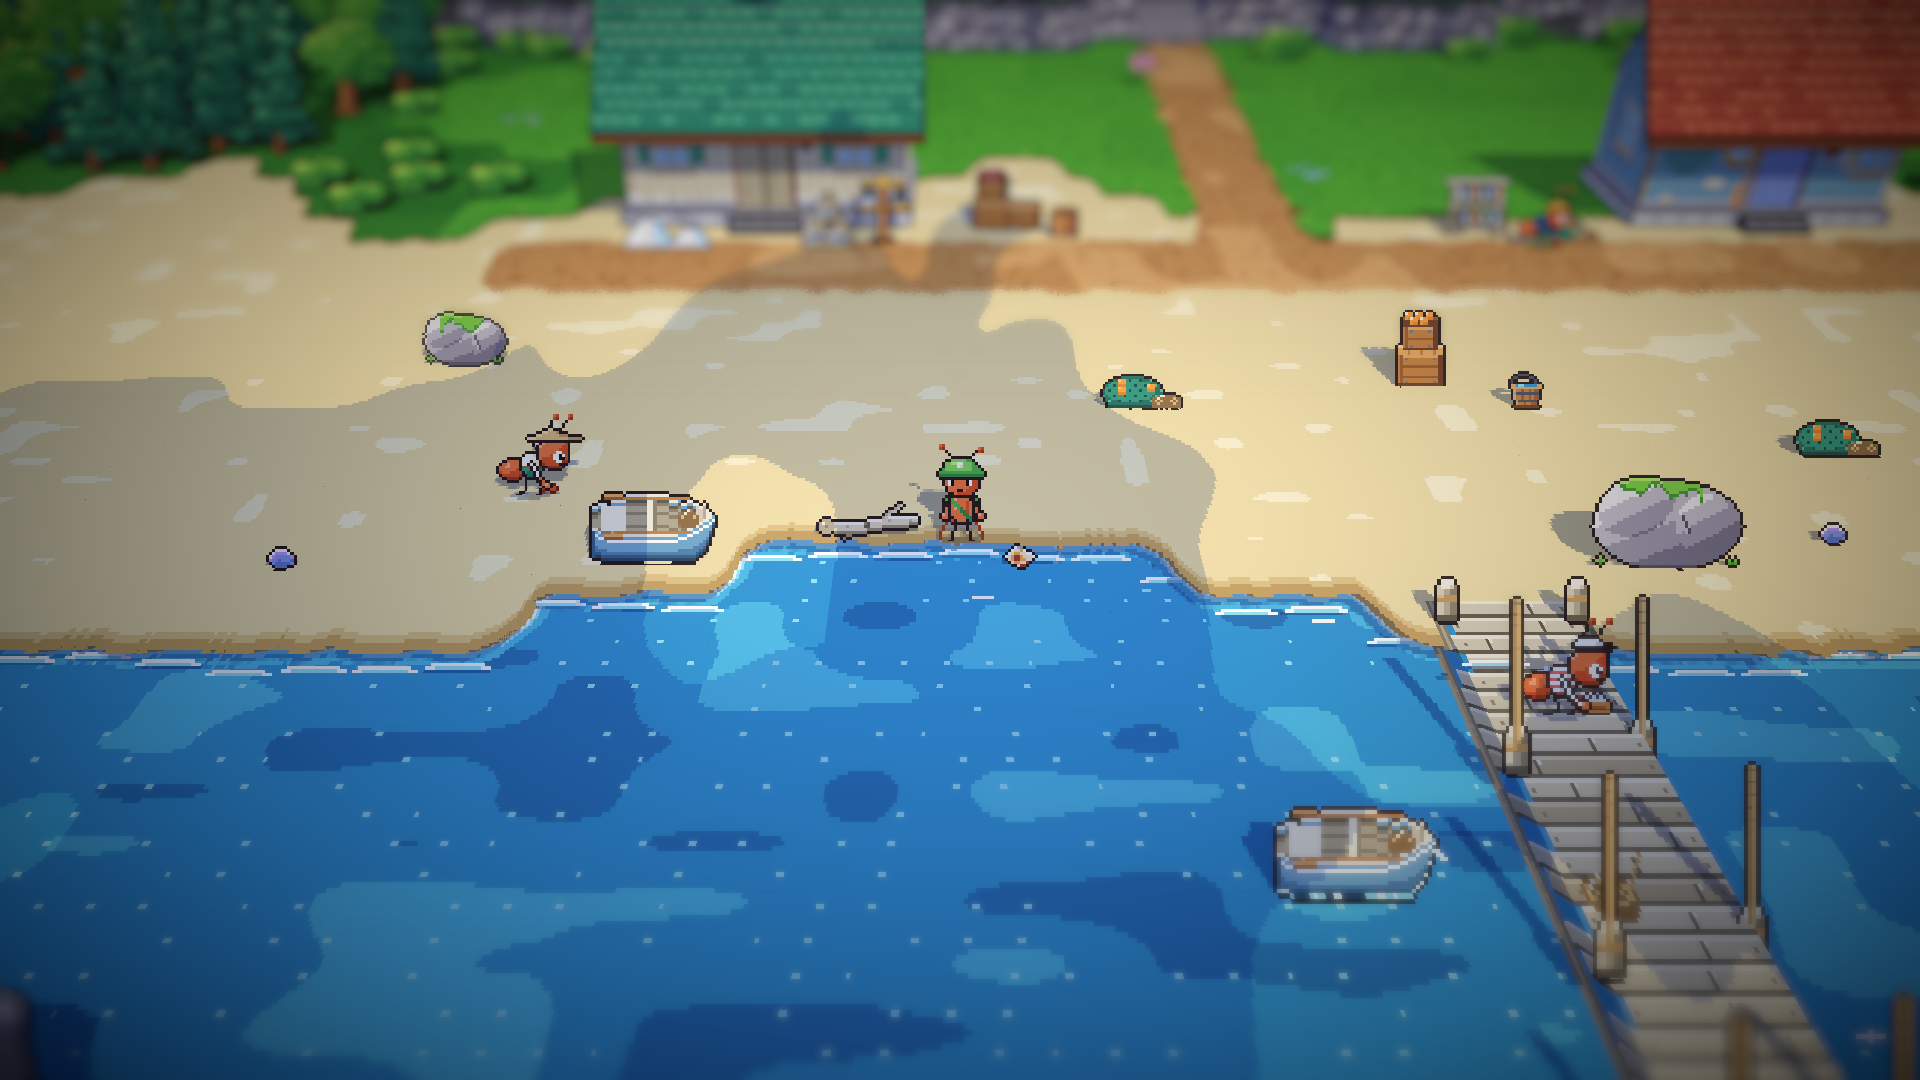
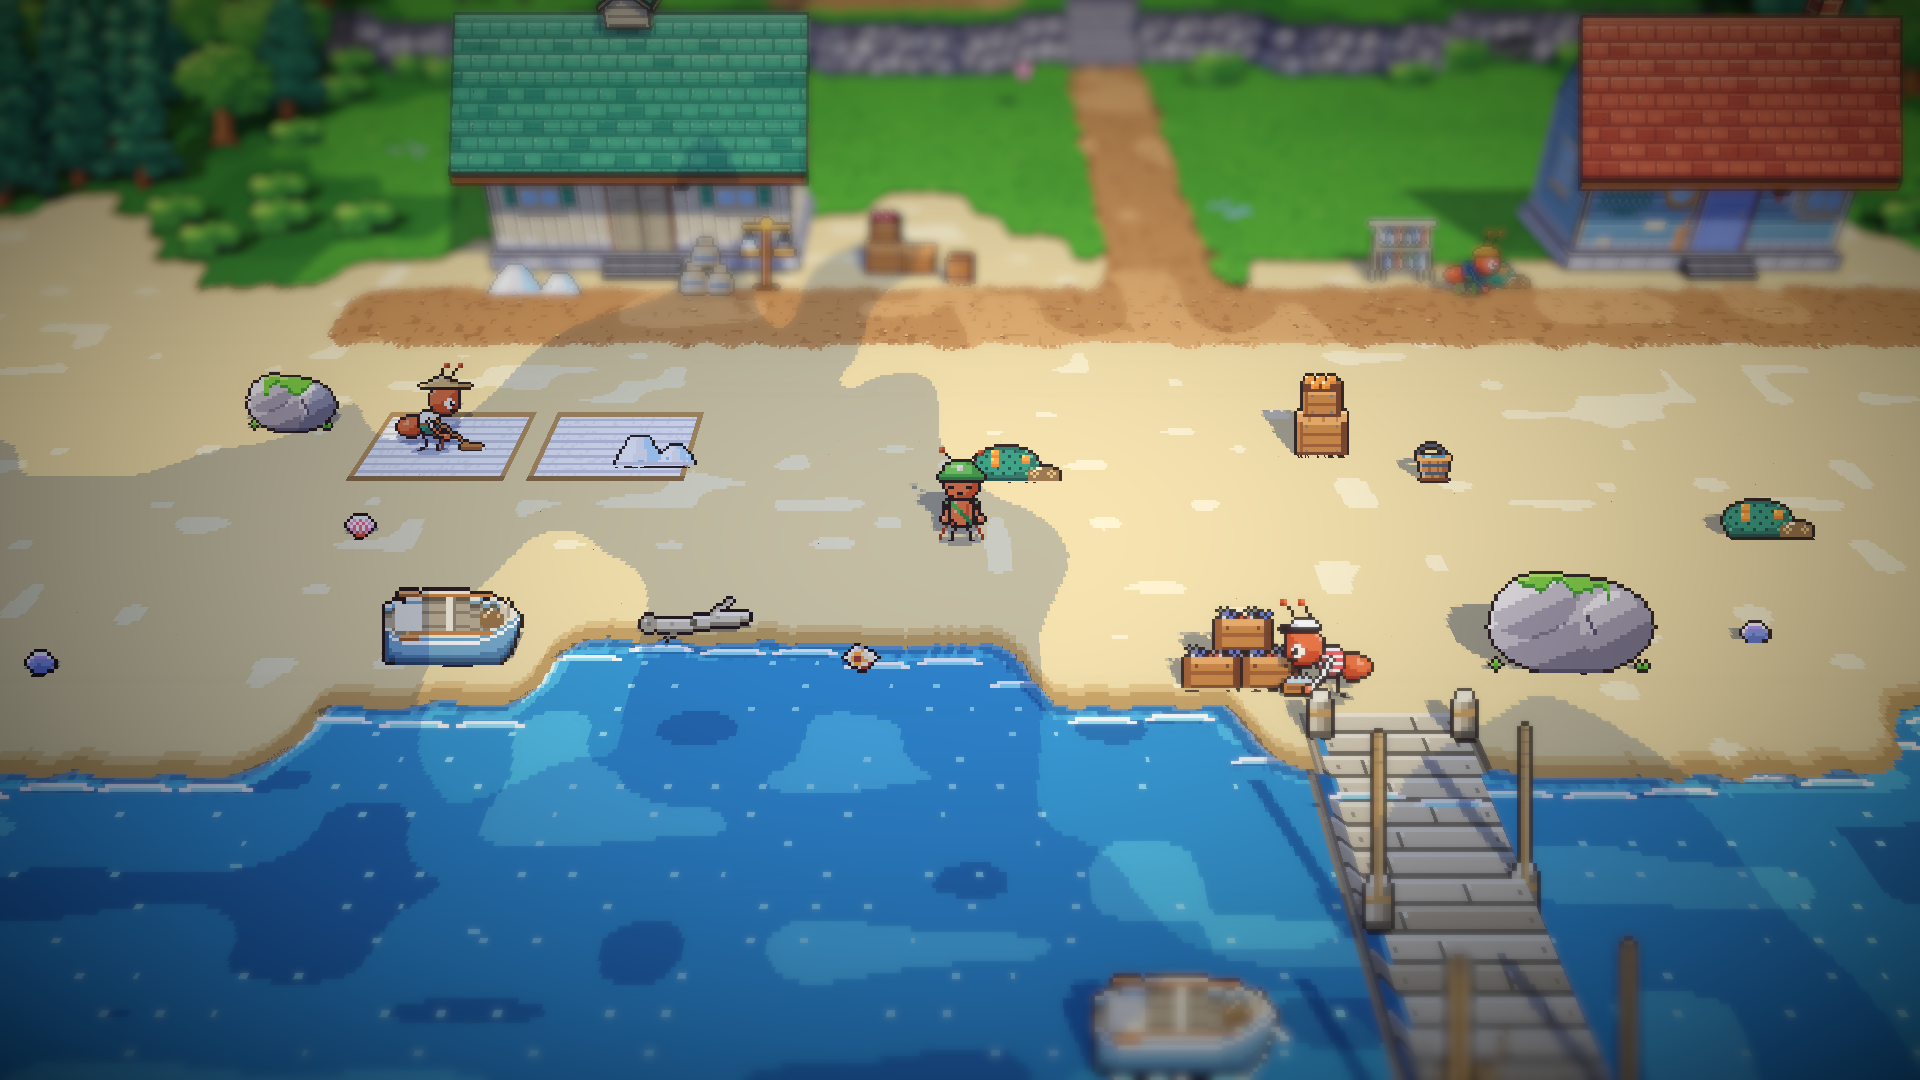
docs(devlog): log the coast's salt pans and catch crates

diff --git a/docs/devlog/22-semut-latar-di-pesisir.md b/docs/devlog/22-semut-latar-di-pesisir.md
@@ -19,14 +19,15 @@ pengangkut ikan dan pekerja garam.
 
 ### Kegiatan mereka (`Places.cs`)
 
-- **Pagi dan siang, nelayan:** mengambil peti ikan di pangkal dermaga, lalu membawanya menyeberangi pasir ke rak ikan
+- **Pagi dan siang, nelayan:** mengambil peti ikan dari tumpukan hasil tangkapan di pangkal dermaga, lalu membawanya menyeberangi pasir ke rak ikan
   di dekat mercusuar. Kalimatnya menyebut Arlo: Arlo yang menangkap, dia yang mengangkut.
-- **Pagi dan siang, pekerja garam:** menggaruk garam di pasir, lalu membawa karungnya ke gudang garam.
+- **Pagi dan siang, pekerja garam:** menggaruk garam di dua petak garam di pasir dengan garuk kayu, lalu membawa
+  karungnya ke gudang garam.
 - **Sore:** nelayan duduk di perahu dayung yang ditarik ke pasir, dan pekerja garam menyapu di depan gudang garam, di
   sebelah tumpukan garam.
 - Masing-masing punya satu kalimat untuk siang hari dan satu untuk sore, tidak pernah berupa petunjuk.
 
-![Pekerja garam menggaruk garam, nelayan di pangkal dermaga](img/22/02-menggaruk-garam.png)
+![Pekerja garam di petak garam, nelayan mengambil peti di pangkal dermaga](img/22/02-menggaruk-garam.png)
 
 ![Pekerja garam membawa karung ke gudang garam](img/22/03-karung-ke-gudang-garam.png)
 
@@ -34,21 +35,32 @@ pengangkut ikan dan pekerja garam.
 
 ![Sore: nelayan di perahu, pekerja garam menyapu](img/22/05-sore-di-pantai.png)
 
-### Perahu yang ditarik ke pasir (`village-south.js`, `areas.js`)
+### Pantai yang mendukung pekerjaan mereka (`village-south.js`, `areas.js`, `chars.js`)
 
-- `V.rowboat(true)` menggambar perahu dayung yang diam di pasir, tanpa air di sekelilingnya.
-- Perahu itu dipindah ke tepi air.
+- **Petak garam:** dua petak dangkal digambar langsung di tanah pasir, berpinggiran pasir basah, dengan garam yang
+  digaruk berbaris. Di ujungnya ada dua tumpukan garam (`saltHeaps`).
+- **Hasil tangkapan:** tumpukan tiga peti berisi ikan (`catchCrates`) di sisi barat pangkal dermaga.
+- **Pose baru `rake`:** gerakan menyapu dengan garuk kayu berkepala datar, bukan sapu. Pekerja garam memakainya di
+  petak garam, dan tetap memakai sapu di sore hari.
+- **Perahu yang ditarik ke pasir:** `V.rowboat(true)` menggambar perahu dayung yang diam di pasir, tanpa air di
+  sekelilingnya. Perahu itu dipindah ke tepi air.
 
 ## Masalah dan solusinya
 
+- **Kegiatan keduanya tidak terbaca.** Pengguna bertanya apa yang dilakukan dua semut itu. Pekerja garam terlihat
+  membungkuk di atas pasir kosong, tanpa garam dan tanpa alat, dan nelayan mengambil peti dari tempat yang kosong.
+  Sekarang ada petak garam, garuk kayu, dan tumpukan peti ikan.
+- **Petak garam pertama terlalu kecil.** Petak itu dibuat sebagai benda berdiri setinggi 10 px, sehingga hanya terlihat
+  seperti garis putih tipis di belakang perahu. Petak garam sekarang digambar di tanah, jauh lebih besar, di pasir yang
+  lapang.
+- **Tumpukan peti menempel pada batu besar** di sebelah timur dermaga. Tumpukan itu dipindah ke sisi barat.
 - **Perahu terlihat terapung di tengah pasir.** Pengguna bertanya kenapa ada perahu di pasir. Perahu di pasir memakai
   gambar perahu yang mengapung: bergoyang, dengan buih di sekeliling lambungnya dan riak di haluannya, padahal letaknya
   jauh dari air. Sekarang perahu itu diam, tanpa buih, dan berada di tepi air. Tempat duduk nelayan ikut pindah.
 
 ## Cara dicek
 
-- Ekspor dengan `python3 game/ArtSource/export.py --force cast` dan `--force areas`. Hanya gambar pesisir yang berubah,
-  peta jalannya tetap.
+- Ekspor dengan `python3 game/ArtSource/export.py --force cast` dan `--force areas`. Hanya pesisir yang berubah.
 - Pratinjau pose dan potret kedua semut.
 - Posisi dan pose keduanya dicatat setiap beberapa detik saat bermain: nelayan dari dermaga ke rak ikan dan kembali,
   pekerja garam dari pasir ke gudang garam dan kembali.
